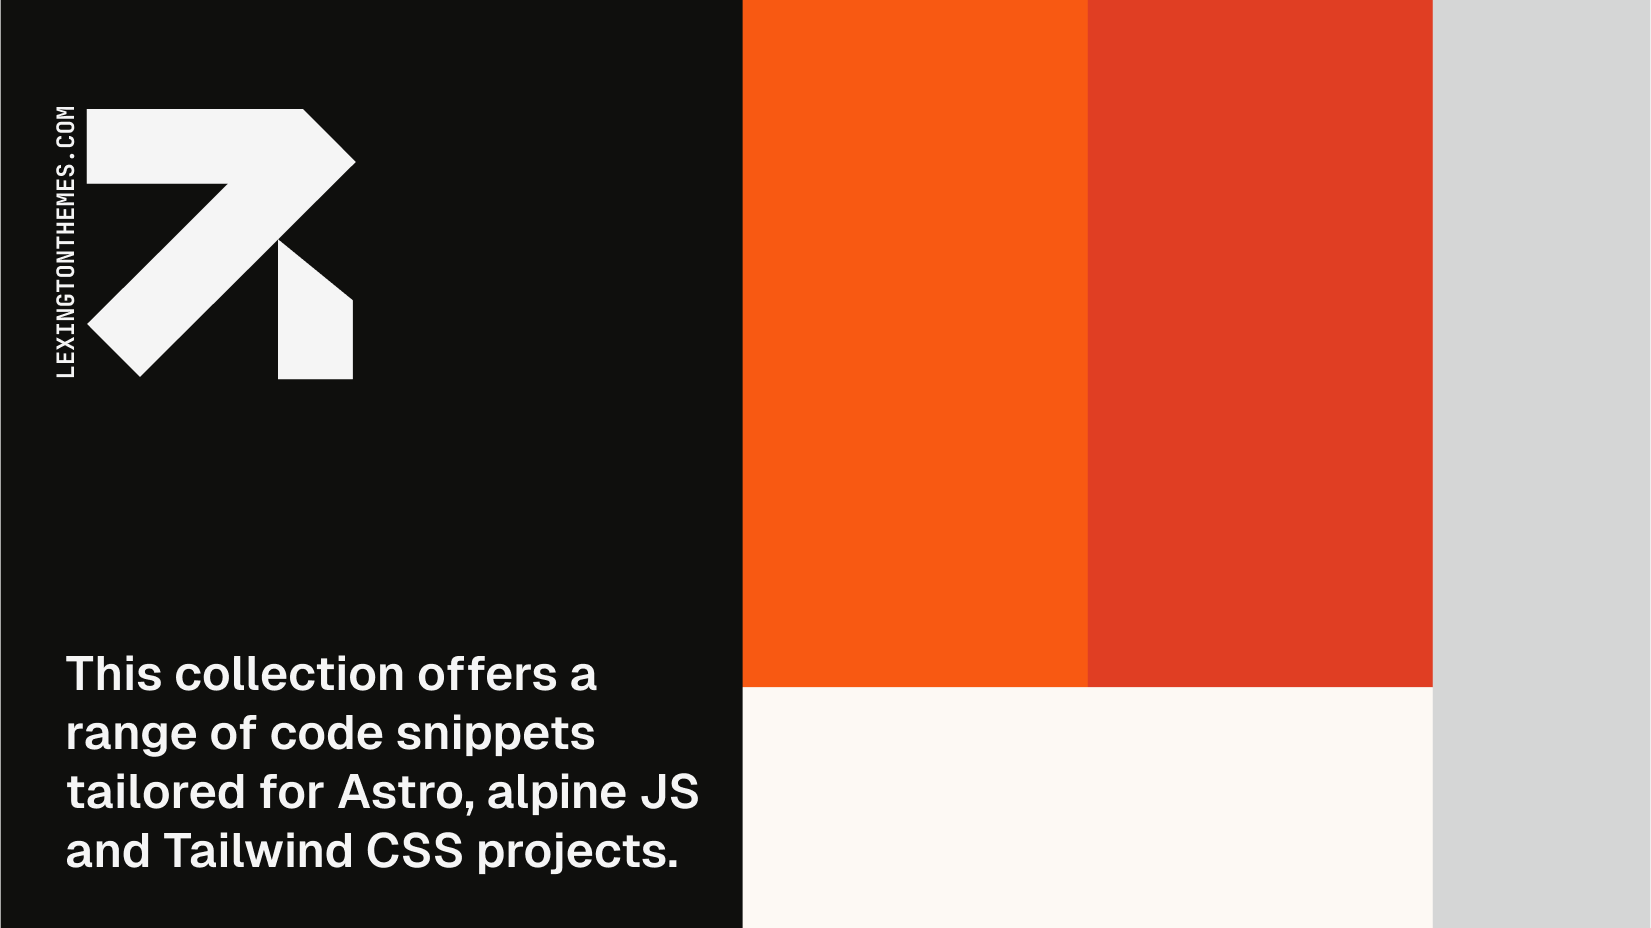
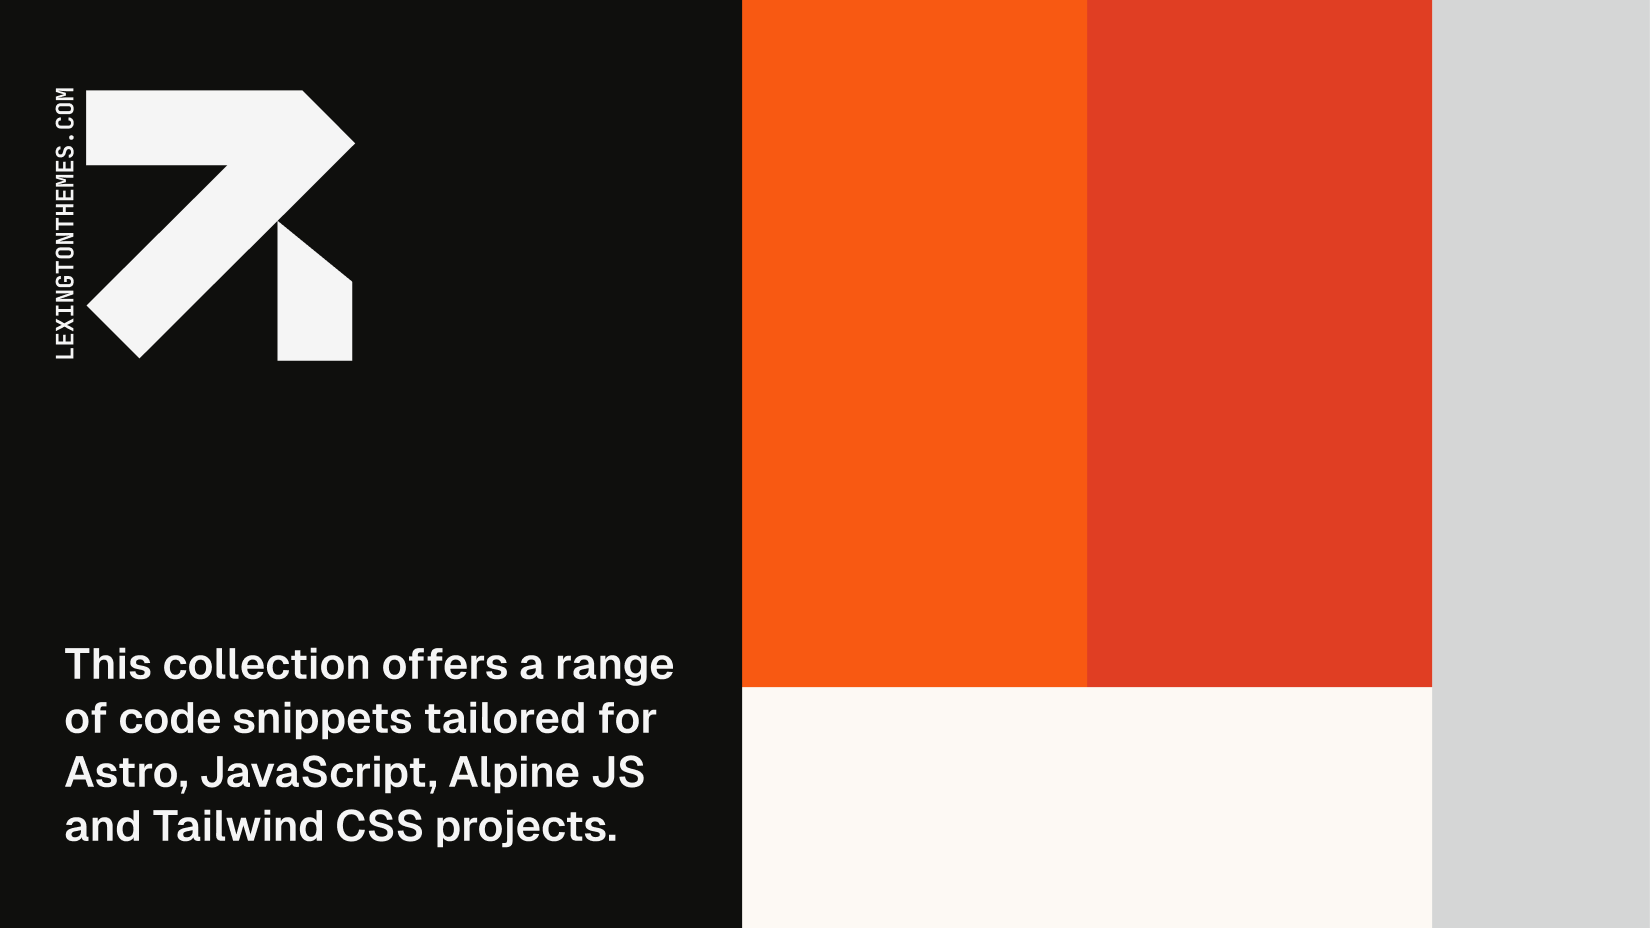
prepared for seo

Changed region(s): [[0.0309, 0.6875, 0.4327, 0.9375], [0.0309, 0.0938, 0.2164, 0.4062], [0.1545, 0.375, 0.2164, 0.4062]]

diff --git a/README.md b/README.md
@@ -2,7 +2,7 @@
 
 # Tutorials from Lexington Themes
 
-This collection offers a range of code snippets tailored for Astro, alpine JS and Tailwind CSS projects.
+This collection offers a range of code snippets tailored for Astro, JavaScript, Alpine JS and Tailwind CSS projects. 
 
 ## Check out all tutorials
 
